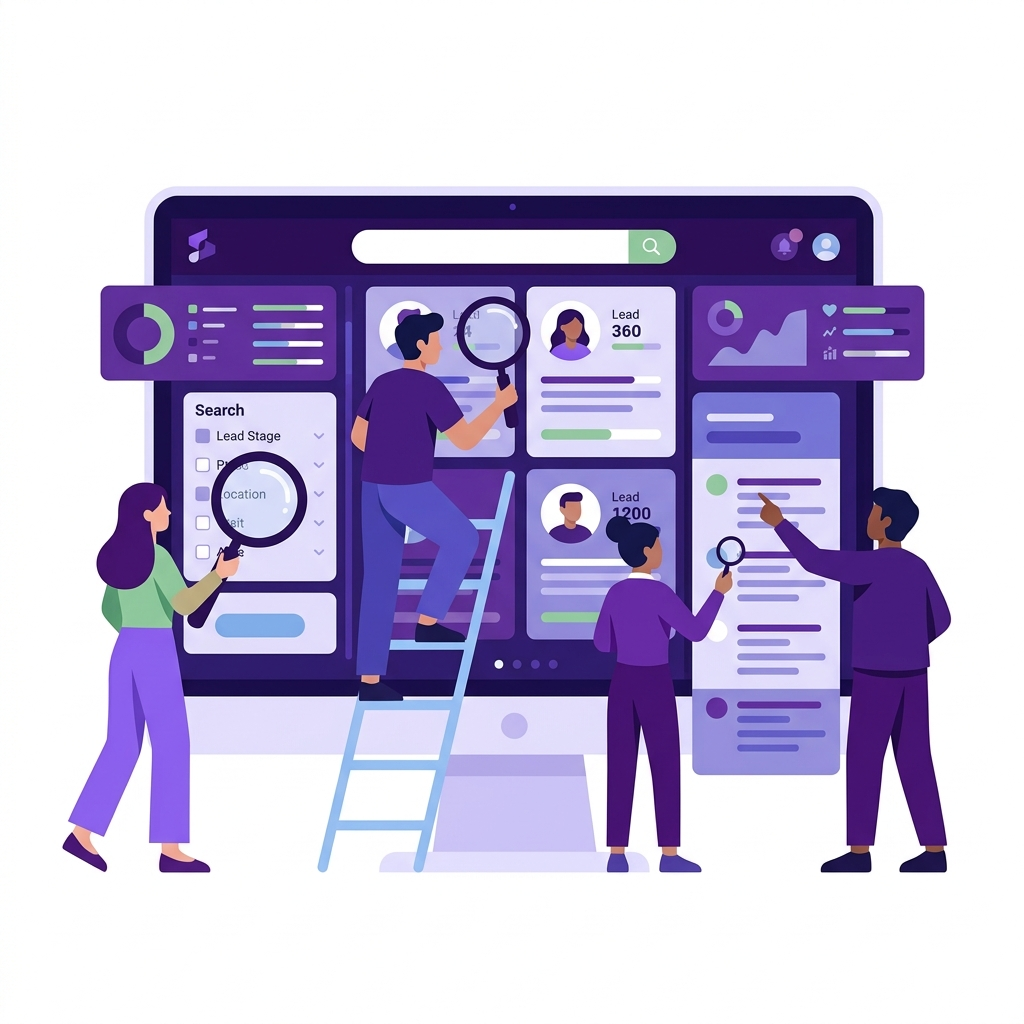
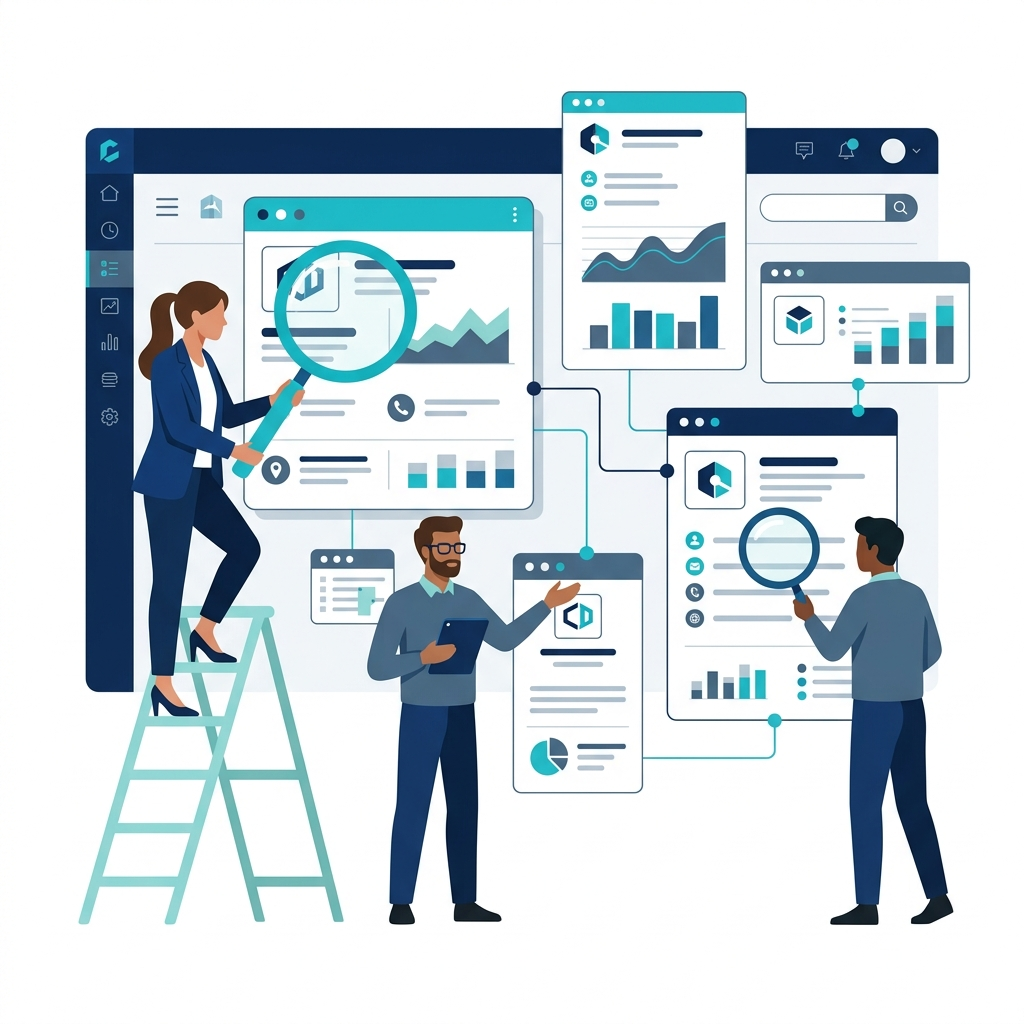
style: refined illustration integration and color matching

diff --git a/apps/web/src/app/(protected)/search/page.tsx b/apps/web/src/app/(protected)/search/page.tsx
@@ -253,33 +253,42 @@ function SearchContent() {
                 style={{ 
                   position: 'relative',
                   width: '100%',
-                  maxWidth: 320,
-                  height: 240,
+                  maxWidth: 360,
+                  height: 280,
                   display: 'flex', 
                   alignItems: 'center', 
                   justifyContent: 'center',
-                  marginBottom: 8
+                  marginBottom: 16,
+                  // Ajout d'un halo subtil pour ancrer l'image dans l'UI
+                  background: `radial-gradient(50% 50% at 50% 50%, ${colors.greenLight} 0%, transparent 100%)`,
                 }}
               >
                 <style dangerouslySetInnerHTML={{__html: `
-                  @keyframes float {
-                    0%, 100% { transform: translateY(0); }
-                    50% { transform: translateY(-10px); }
+                  @keyframes floatSubtle {
+                    0%, 100% { transform: translateY(0) scale(1); }
+                    50% { transform: translateY(-8px) scale(1.02); }
                   }
-                  .illustration-float {
-                    animation: float 4s infinite ease-in-out;
+                  .illustration-refined {
+                    animation: floatSubtle 6s infinite ease-in-out;
+                    mix-blend-mode: multiply;
+                    transition: filter 0.3s ease;
+                  }
+                  /* En mode sombre, multiply ne fonctionne pas bien, on ajuste */
+                  [data-theme='dark'] .illustration-refined {
+                    mix-blend-mode: normal;
+                    filter: brightness(0.9) contrast(1.1);
                   }
                 `}} />
                 
                 <img 
                   src="/illustrations/search-prospects.png" 
                   alt="Search illustration" 
-                  className="illustration-float"
+                  className="illustration-refined"
                   style={{
                     width: '100%',
                     height: '100%',
                     objectFit: 'contain',
-                    filter: 'drop-shadow(0 10px 20px rgba(0,0,0,0.08))'
+                    opacity: 0.95,
                   }}
                 />
               </div>